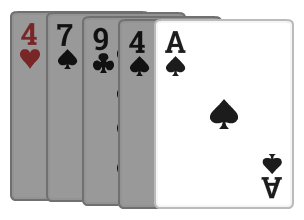
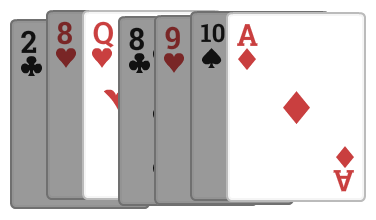
Updated drive to take in any number of cards and added hero point mechanic

diff --git a/javascript/index.js b/javascript/index.js
@@ -39,8 +39,10 @@ client.on("ready", () => {
 	config.acceptablePrefixes = rawConfig.prefixes
 	config.commands = [
 		{ keys: rawConfig.alias.shuffle, method: shuffle },
+		{ keys: rawConfig.alias.shiffle, method: shiffle },
 		{ keys: rawConfig.alias.flip, method: flip },
 		{ keys: rawConfig.alias.drive, method: drive },
+		{ keys: rawConfig.alias.hero, method: hero },
 		{ keys: rawConfig.alias.desperado, method: desperado },
 		{ keys: rawConfig.alias.schadenfreude, method: schadenfreude },
 		{ keys: rawConfig.alias.boom, method: boom },
@@ -134,6 +136,13 @@ function shuffle(skUser, message, argumentString){
 	message.channel.send('Deck shuffled!')
 }
 
+// A simple reset and deck shuffle. This can be used in the event of an error that messes up the deck 
+function shiffle(skUser, message, argumentString){
+	skUser.reset()
+	skUser.shuffle()
+	message.channel.send('Deck shiffled!')
+}
+
 // The main function responsible for showing the flipped cards 
 function flip(skUser, message, argumentString){
 	if(argumentString.length == 0){
@@ -161,6 +170,7 @@ function flip(skUser, message, argumentString){
 			// Make sure there is no open hand
 			skUser.discardHand()
 			skUser.driveUsed = 0
+			skUser.heroPointUsed = false
 			// Generate the hand 
 			for(var i = 0; i < number; i++){ 
 				skUser.deal();
@@ -177,19 +187,61 @@ function flip(skUser, message, argumentString){
 	}
 }
 
+function drive(skUser, message, argumentString){
+	if(argumentString.length == 0){
+		argumentString = "1"
+	}
+
+	var numberString = argumentString.split(" ")[0]
+
+	var number = parseInt(numberString, 10)
+
+	// Check for... special cases
+	if(number == 69){
+		message.channel.send("nice")
+		return
+	}
+	if(number == 420){
+		message.channel.send("blaze it *dab*")
+		return
+	}
+	
+	// Make sure it is an integer and not too large
+	if(Number.isInteger(number) && number > 0 && number <= 54){
+		driveN(skUser, message, number, false)
+	}else {
+		message.channel.send(number + " was not a nice number! >:(") // >:(
+	}
+}
+
+
+function hero(skUser, message, argumentString){
+	if(skUser.heroPointUsed){
+		message.channel.send("You already used a hero point this hand!")
+	}else{
+		driveN(skUser, message, 2, true)	
+	}
+}
+
 // If the user want's to flip more cards with drive, this is the method that gets called
 // It just adds one more card to the user's hand and then regenerates the summary and card image
-function drive(skUser, message, argumentString){
+function driveN(skUser, message, numberOfCards, isHeroPoint){
 	if(skUser.lastMessage == null){
-		message.channel.send("Please flip some cards before you use drive.")
+		message.channel.send("Please flip some cards before you use drive or hero points.")
 	}else{ 
-		if(skUser.deck.length == 0){
-			message.channel.send("You have no more cards to flip!")
+		if(skUser.deck.length - numberOfCards <= 0){
+			message.channel.send("There are not enough cards in your deck to flip that many!")
 		}else{
 			message.delete()
 			skUser.lastMessage.delete()
-			skUser.deal()
-			skUser.driveUsed += 1
+			for(var i = 0; i < numberOfCards; i++){
+				skUser.deal()
+			}
+			if(isHeroPoint){
+				skUser.heroPointUsed = true
+			}else{
+				skUser.driveUsed += numberOfCards
+			}
 
 			postHand(skUser, message.channel)
 		}

diff --git a/javascript/SKUser.js b/javascript/SKUser.js
@@ -11,6 +11,7 @@ class SKUser{
 		this.isDesperado = false;
 		this.showSummary = true;
 		this.driveUsed = 0;
+		this.heroPointUsed = false;
 	}
 
 	generateSummaryMessage() {
@@ -69,7 +70,15 @@ class SKUser{
 
 		// Drive is always shown 
 		if (this.driveUsed >= 1){
-			string += `Used ${this.driveUsed} drive${"!".repeat(this.driveUsed)}\n`
+			if(this.heroPointUsed){
+				string += `Used ${this.driveUsed} drive and a hero point${"!".repeat(this.driveUsed + 1)}\n`
+			} else {
+				string += `Used ${this.driveUsed} drive${"!".repeat(this.driveUsed)}\n`
+			}
+		} else {
+			if(this.heroPointUsed){
+				string += `Used a hero point!\n`
+			}
 		}
 
 		// Post result
@@ -82,7 +91,7 @@ class SKUser{
 		var cardsToShuffleBackIn = []
 		// Find the cards to move 
 		for(var i = 0; i < this.discard.length; i++){
-			if(isCritical(this.discard[i], this.desperado) || isJoker(this.discard[i], this.desperado)){
+			if(helper.isCritical(this.discard[i], this.desperado) || helper.isJoker(this.discard[i], this.desperado)){
 				cardsToShuffleBackIn.push(this.discard[i])
 			}
 		}
@@ -104,7 +113,7 @@ class SKUser{
 	pocketJoker(){
 		var cardsToShuffleBackIn = []
 		for(var i = 0; i < this.hand.length; i++){
-			if(isJoker(this.hand[i], this.desperado)){
+			if(helper.isJoker(this.hand[i], this.desperado)){
 				cardsToShuffleBackIn.push(this.hand[i])
 			}
 		}

diff --git a/README.md b/README.md
@@ -25,7 +25,8 @@ Command reference:
 |------------------|------------------------------------------------------------------------------------------------------------------------|
 | `shuffle`        | Completely rebuilds the deck and shuffles it, good for resetting.                                                      |
 | `flip n`         | Flips n cards and displays them                                                                                        |
-| `drive`          | Flips an additional card and adds it to the previous flip, can be used any number of times                             |
+| `drive n`        | Flips an additional n cards and adds them to the previous flip, can be used any number of times                        |
+| `hero`           | Flips two additional cards and adds them to the previous flip, can only be used one time per card flip                 |
 | `desperado`      | Changes which cards count as jokers and as criticals to reflect the Desperado ultimate, takes either `true` or `false` |
 | `schadenfreude`  | Flips one card and tells you to add a drive if it is a face or a joker, see Schadenfreude ultimate for rules           |
 | `boom`           | Shuffles criticals and jokers back into the deck, see More Explosions ultimate for rules                               |
